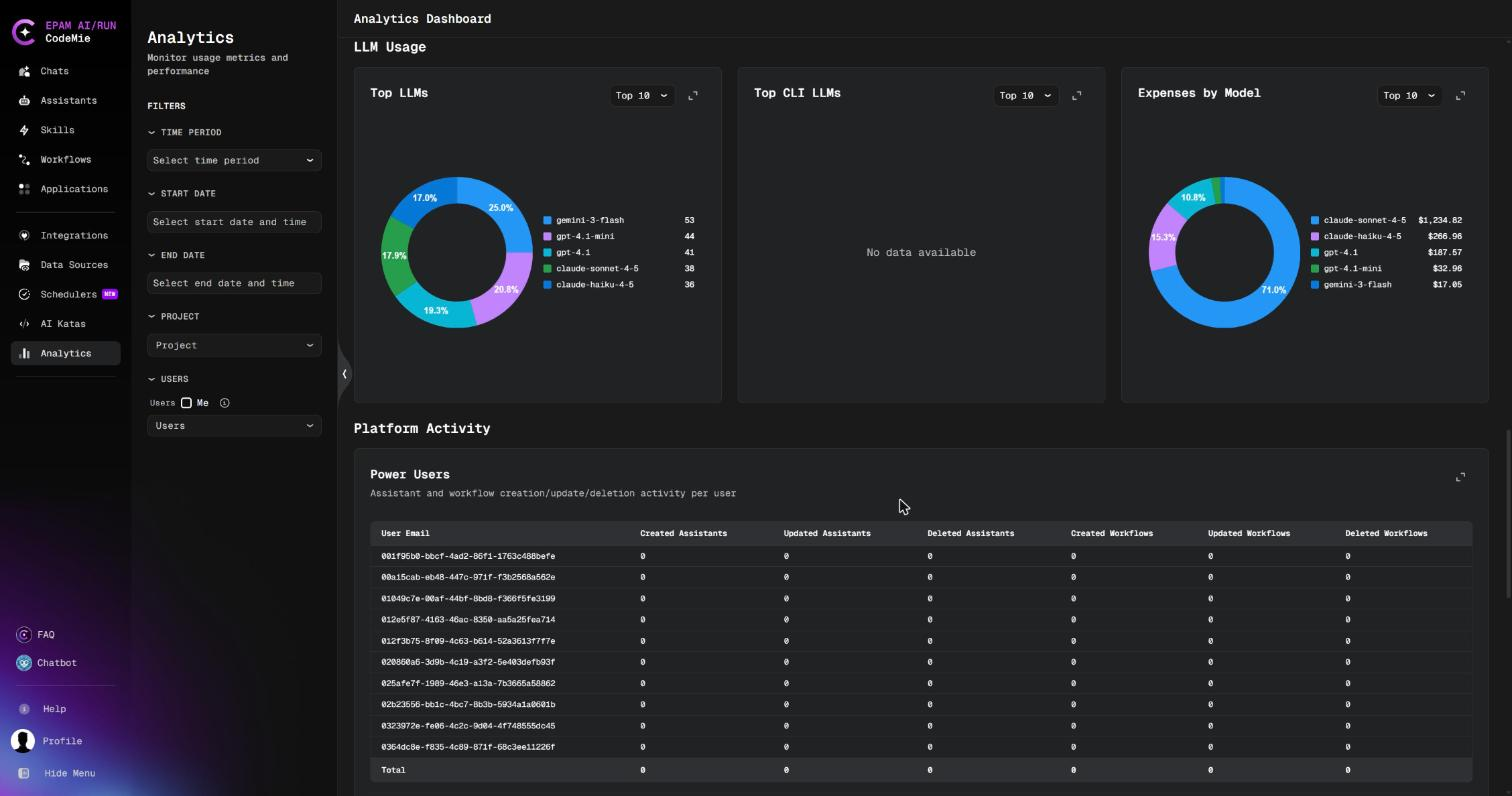
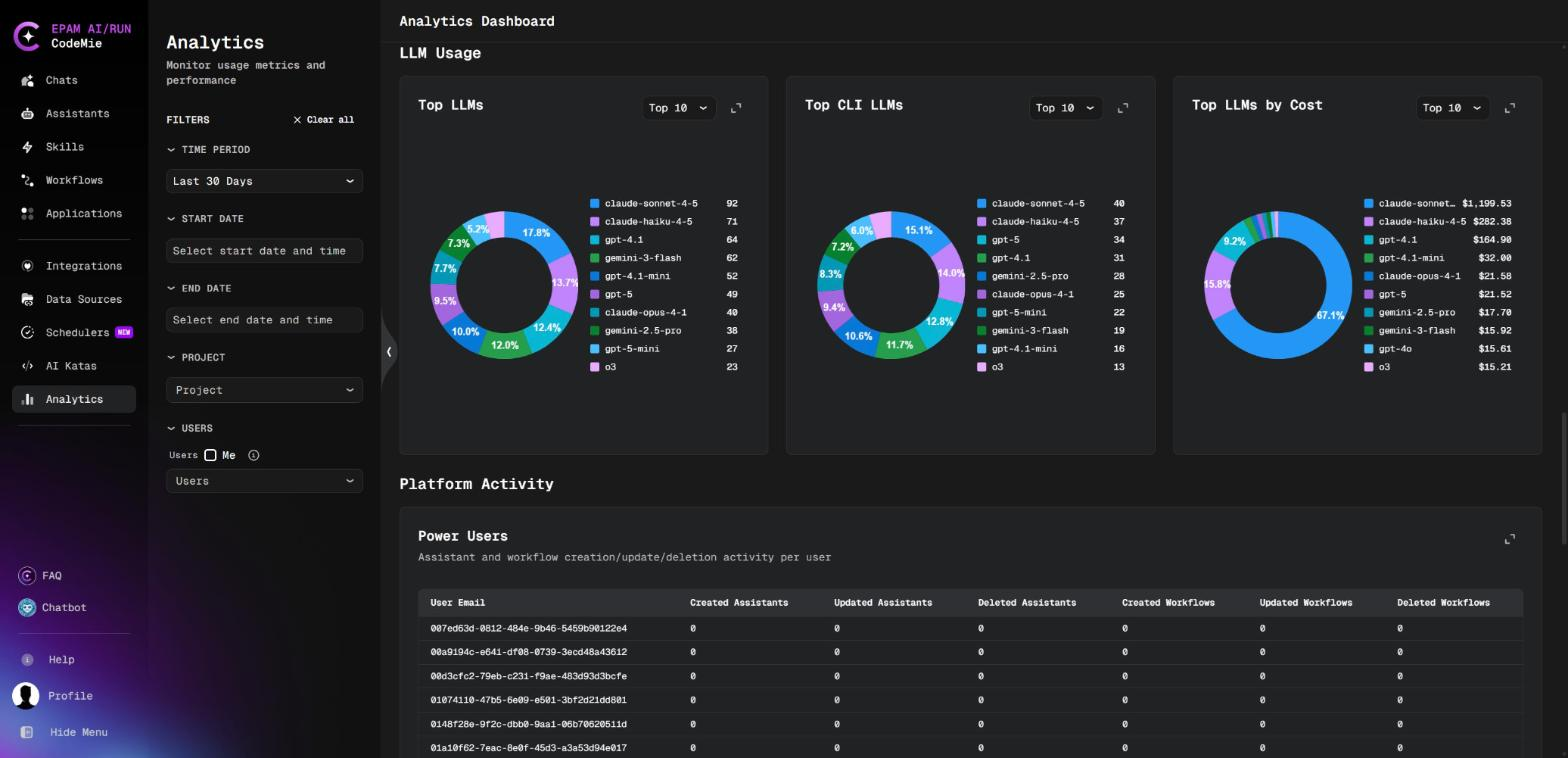
docs(user-guide): rename expenses by model chart to top llms by cost

diff --git a/docs/user-guide/analytics/index.md b/docs/user-guide/analytics/index.md
@@ -126,17 +126,17 @@ The **LLM Usage** section of the Insights tab shows three donut charts side by s
 a **Top N** selector (**Top 10**, **Top 20** or **All**) and an expand icon that opens the chart in
 a larger view.
 
-![LLM Usage charts: Top LLMs, Top CLI LLMs and Expenses by Model](./images/llm-usage-charts.png)
+![LLM Usage charts: Top LLMs, Top CLI LLMs and Top LLMs by Cost](./images/llm-usage-charts.png)
 
-| Chart                 | What it shows                                             | Value       |
-| --------------------- | --------------------------------------------------------- | ----------- |
-| **Top LLMs**          | Models ranked by number of requests                       | Requests    |
-| **Top CLI LLMs**      | Models used through the CLI, ranked by number of requests | Requests    |
-| **Expenses by Model** | Total cost of each model and its share of the total spend | Cost in USD |
+| Chart                | What it shows                                             | Value       |
+| -------------------- | --------------------------------------------------------- | ----------- |
+| **Top LLMs**         | Models ranked by number of requests                       | Requests    |
+| **Top CLI LLMs**     | Models used through the CLI, ranked by number of requests | Requests    |
+| **Top LLMs by Cost** | Total cost of each model and its share of the total spend | Cost in USD |
 
-### Expenses by Model
+### Top LLMs by Cost
 
-**Expenses by Model** answers the question _which models cost the most_. Each slice is the total
+**Top LLMs by Cost** answers the question _which models cost the most_. Each slice is the total
 cost of one model for the selected period, and the legend lists the exact amount in US dollars.
 
 - **Filters**: the chart follows the [global filters](#global-filtering-system) — time period,
